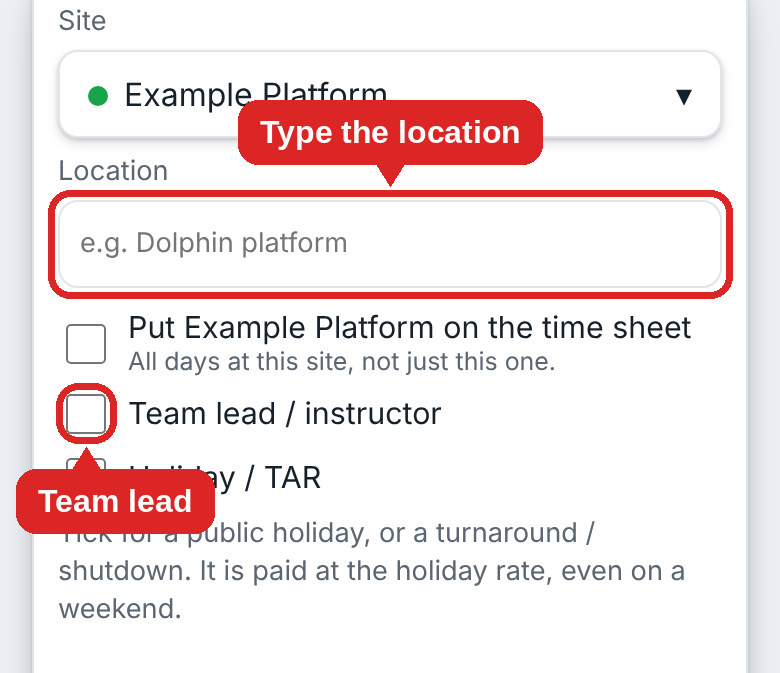
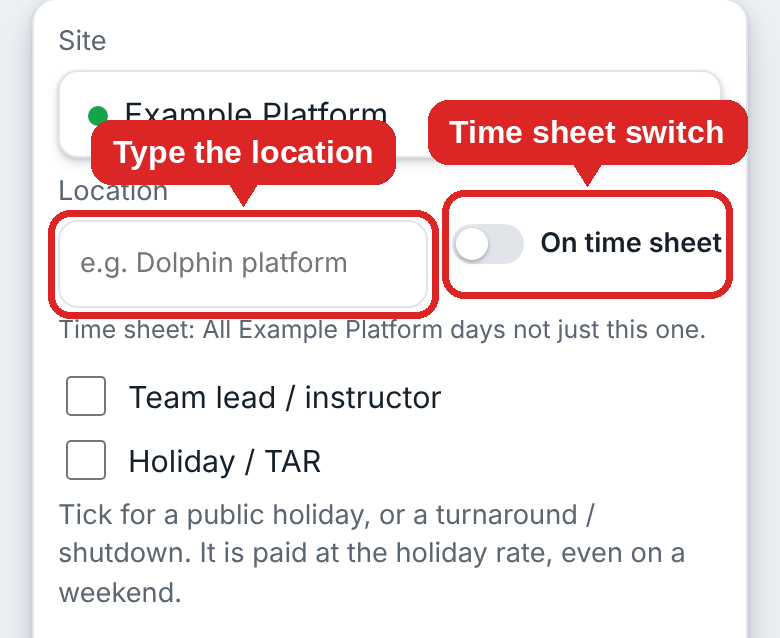
Compact group rate cards, Close bar on site cards, time sheet switch on the day form (#18)
* Holiday / turnaround days read HOL/TAR in the list and on Home

* Timesheet: tick the sites and roles that go on the timesheet (and other jobs), edit the Client column text, press Save

* Menus pull down from their handle and title bar only; time picker uses AM/PM, hour and minute wheels (always saved as 24-hour)

* Payroll email says Good day; timesheet jobs show roles under each site, a read-out sentence, and a client-medic-everywhere option

Claude-Session: https://claude.ai/code/session_015B217MJCLoYGM2HCZFLF5v

* Time picker: smaller, softer time readout

Claude-Session: https://claude.ai/code/session_015B217MJCLoYGM2HCZFLF5v

* Share menu: starter kit tries .txt first (Android refuses .json); Send to payroll builds the file first, then opens the share menu with the email text

Claude-Session: https://claude.ai/code/session_015B217MJCLoYGM2HCZFLF5v

* Per-site 'Job requires lunch check' Yes/No (settings and Add site); No hides lunch options and pays the full time

Claude-Session: https://claude.ai/code/session_015B217MJCLoYGM2HCZFLF5v

* Colour picker: smaller round swatches in three rows, 12 more colours (existing sites keep theirs)

Claude-Session: https://claude.ai/code/session_015B217MJCLoYGM2HCZFLF5v

* Send to payroll: Download and share in one tap (saves to Downloads, stays on screen, opens the share menu); button becomes Share if the phone needs a second tap

Claude-Session: https://claude.ai/code/session_015B217MJCLoYGM2HCZFLF5v
[…]

Changed region(s): [[0.0, 0.0, 0.9846, 0.953], [0.9231, 0.0, 0.9538, 0.0298]]

diff --git a/src/screens/SitesPage.tsx b/src/screens/SitesPage.tsx
@@ -317,6 +317,7 @@ function SiteCard({ name, saved, payers, firstDate, impactFor, onSave, onRename,
           </div>
         </div>
       )}
+      <button className="more close-site" onClick={(e) => { const d = e.currentTarget.closest("details")!; d.open = false; d.scrollIntoView({ block: "nearest" }); }}>Close {name} ▴</button>
     </details>
   );
 }
@@ -343,7 +344,6 @@ function GroupRates({ payer, name, table, firstDate, impactFor, farBack, onApply
   const ownRate = (n: string) => { const t = table[n]!; return (curStd !== undefined && t.baseRate !== curStd) || (curLead !== undefined && t.leadRate !== undefined && t.leadRate !== curLead); };
   const defaultExcept = change.filter(ownRate);
   const [except, setExcept] = useState<string[]>(defaultExcept);
-  const [showExcept, setShowExcept] = useState(false);
   useEffect(() => { setStd(curStd); setLead(curLead); setSameLead(curStd !== undefined && curStd === curLead); setCaps(curCaps); setExcept(defaultExcept); }, [key]); // eslint-disable-line react-hooks/exhaustive-deps
   const newLead = sameLead ? std : lead;
   const capsChanged = JSON.stringify(caps) !== JSON.stringify(curCaps);
@@ -355,15 +355,16 @@ function GroupRates({ payer, name, table, firstDate, impactFor, farBack, onApply
   return (
     <section className="card group-rates" aria-label={`Rates for ${name}`}>
       <h2>{name}</h2>
-      <p className="muted small">{included.length === change.length ? `The same rates for all ${change.length} hourly site${change.length === 1 ? "" : "s"}` : `Applies to ${included.length} of ${change.length} hourly sites`}: {included.join(", ") || "none"}.{except.length > 0 && <> Left out: <strong>{except.join(", ")}</strong>.</>}</p>
+      <p className="muted small">{included.length === change.length ? `${change.length} hourly site${change.length === 1 ? "" : "s"}` : `${included.length} of ${change.length} hourly sites`}: {included.join(", ") || "none"}.{except.length > 0 && <> Left out: <strong>{except.join(", ")}</strong>.</>}</p>
       <div className="grid2">
         <label>Standard rate ($/h)<NumInput label={`${name} standard rate`} value={std} onChange={setStd} /></label>
         <label>Team lead rate ($/h)<NumInput label={`${name} team lead rate`} value={sameLead ? std : lead} onChange={(v) => { setSameLead(false); setLead(v); }} /></label>
       </div>
       <label className="check"><input type="checkbox" aria-label={`${name} team lead same as standard`} checked={sameLead} onChange={(e) => setSameLead(e.target.checked)} /> {" "}Team lead is paid the same as standard</label>
-      <button className="more" aria-expanded={more} onClick={() => setMore(!more)}>{more ? "Less ▴" : "More ▾"} <span className="muted small">· hours at 1x, 1.5x, 2x, 3x</span></button>
+      <button className="more" aria-expanded={more} onClick={() => setMore(!more)}>{more ? "Less ▴" : "More… ▾"} <span className="muted small">· hours, except, start date{except.length ? ` · ${except.length} left out` : ""}</span></button>
       {more && (
         <div className="more-panel">
+          <h3 className="sub">Hours at 1x, 1.5x, 2x, 3x</h3>
           <label>Start from a template
             <select aria-label={`${name} hours template`} value={detectTemplate(caps) ?? ""} onChange={(e) => e.target.value && setCaps(applyTemplate(caps, e.target.value))}>
               <option value="">{detectTemplate(caps) ? "" : "Custom hours"}</option>
@@ -377,21 +378,19 @@ function GroupRates({ payer, name, table, firstDate, impactFor, farBack, onApply
             <CapsRow label="Holiday / TAR" caps={caps.holiday} onChange={(c) => setCaps({ ...caps, holiday: c })} withX3 />
           </div>
           <p className="muted small">Example: 12 under 1x means the first 12 hours of each day are paid at 1x. Type 1000 for “no limit”. Holiday / TAR is used for a holiday or a turnaround / shutdown, even on a weekend.</p>
+          <h3 className="sub">Except</h3>
+          <div className="except-panel" role="group" aria-label={`Sites to leave out of ${name} changes`}>
+            <p className="muted small">Tick a site to <strong>leave it out</strong> of “Change for all sites”. Sites with their own rate start out ticked.</p>
+            {change.map((n) => (
+              <label key={n} className="check">
+                <input type="checkbox" aria-label={`Leave out ${n}`} checked={except.includes(n)} onChange={(e) => setExcept(e.target.checked ? [...except, n] : except.filter((x) => x !== n))} />
+                {" "}{n}{table[n]!.baseRate !== undefined && <span className="muted small"> · ${table[n]!.baseRate}/h{table[n]!.leadRate !== undefined && table[n]!.leadRate !== table[n]!.baseRate ? ` · lead $${table[n]!.leadRate}` : ""}{ownRate(n) ? " · own rate" : ""}</span>}
+              </label>
+            ))}
+          </div>
+          <TakeEffect from={from} setFrom={setFrom} firstDate={firstDate} label={`${name} take effect from`} impact={impact} />
         </div>
       )}
-      <button className="more" aria-expanded={showExcept} onClick={() => setShowExcept(!showExcept)}>{showExcept ? "Except ▴" : `Except… ${except.length ? `(${except.length} left out)` : ""} ▾`}</button>
-      {showExcept && (
-        <div className="more-panel except-panel" role="group" aria-label={`Sites to leave out of ${name} changes`}>
-          <p className="muted small">Tick a site to <strong>leave it out</strong> of “Change for all sites”. Sites with their own rate start out ticked.</p>
-          {change.map((n) => (
-            <label key={n} className="check">
-              <input type="checkbox" aria-label={`Leave out ${n}`} checked={except.includes(n)} onChange={(e) => setExcept(e.target.checked ? [...except, n] : except.filter((x) => x !== n))} />
-              {" "}{n}{table[n]!.baseRate !== undefined && <span className="muted small"> · ${table[n]!.baseRate}/h{table[n]!.leadRate !== undefined && table[n]!.leadRate !== table[n]!.baseRate ? ` · lead $${table[n]!.leadRate}` : ""}{ownRate(n) ? " · own rate" : ""}</span>}
-            </label>
-          ))}
-        </div>
-      )}
-      <TakeEffect from={from} setFrom={setFrom} firstDate={firstDate} label={`${name} take effect from`} impact={impact} />
       <button className="primary wide" disabled={!changed || included.length === 0} onClick={() => setAsk(true)}>Change for all sites</button>
       {skip.length > 0 && <p className="muted small">Not changed (flat pay or a threshold rate): {skip.join(", ")}. Edit those below.</p>}
       {ask && (

diff --git a/src/screens/DayEditor.tsx b/src/screens/DayEditor.tsx
@@ -192,42 +192,51 @@ export function DayEditor({ date, add, focus, onClose }: { date: string; add?: "
           return (
             <div className="entry" key={entry.id} data-entry-id={entry.id}>
               <SitePicker value={entry.site} names={siteNames} onPick={(n) => changeSite(entry, n)} />
-              {findSite(sites, entry.site)?.roleField ? (
-                <label>
-                  {findSite(sites, entry.site)!.roleField!.label}
-                  <input aria-label={findSite(sites, entry.site)!.roleField!.label}
-                    value={entry.role ?? ""} placeholder={`e.g. ${findSite(sites, entry.site)!.roleField!.placeholder ?? ""}`.trim()}
-                    onChange={(e) => patch(entry.id, { role: e.target.value || undefined })}
-                  />
-                </label>
-              ) : (() => {
+              {(() => {
+                const typedField = findSite(sites, entry.site)?.roleField;
                 const roleNames = rolesFor(findSite(sites, entry.site));
                 const orphan = entry.role && !roleNames.some((r) => r.toLowerCase() === entry.role!.toLowerCase());
-                return (
-                  <label className="field-short">
-                    Role
-                    <select value={entry.role ?? ""} onChange={(e) => patch(entry.id, { role: e.target.value || undefined })}>
-                      <option value="">Not applicable</option>
-                      {roleNames.map((r) => <option key={r} value={r}>{r}</option>)}
-                      {orphan && <option value={entry.role}>{entry.role} (not in rates)</option>}
-                    </select>
-                  </label>
-                );
-              })()}
-              {entry.site && (() => {
-                const typedSite = !!findSite(sites, entry.site)?.roleField;
-                const role = !typedSite && entry.role?.trim() ? entry.role.trim() : undefined;
+                const role = !typedField && entry.role?.trim() ? entry.role.trim() : undefined;
                 const siteRule = siteRuleOf(entry.site);
                 const own = role ? !!roleRuleOf(entry.site, role) : !!siteRule;
                 const viaOther = !own && forced;
+                // The time sheet switch is a setting for every day at the site, so it sits beside the role box, away from this day's ticks.
                 return (
-                  <label className="check ts-check">
-                    <input type="checkbox" checked={own || viaOther} disabled={viaOther} onChange={(e) => toggleSheet(entry.site, role, e.target.checked)} />
-                    <span>
-                      {role ? `Put ${entry.site} ${role} on the time sheet` : `Put ${entry.site} on the time sheet`}
-                      <small className="muted">{viaOther ? (siteRule ? "The whole site is on it (Settings, Timesheet)." : "On it by a role rule (Settings, Timesheet).") : role ? `All ${role} days at this site, not just this one.` : "All days at this site, not just this one."}</small>
-                    </span>
-                  </label>
+                  <>
+                    <div className="role-row">
+                      {typedField ? (
+                        <label>
+                          {typedField.label}
+                          <input aria-label={typedField.label}
+                            value={entry.role ?? ""} placeholder={`e.g. ${typedField.placeholder ?? ""}`.trim()}
+                            onChange={(e) => patch(entry.id, { role: e.target.value || undefined })}
+                          />
+                        </label>
+                      ) : (
+                        <label>
+                          Role
+                          <select value={entry.role ?? ""} onChange={(e) => patch(entry.id, { role: e.target.value || undefined })}>
+                            <option value="">Not applicable</option>
+                            {roleNames.map((r) => <option key={r} value={r}>{r}</option>)}
+                            {orphan && <option value={entry.role}>{entry.role} (not in rates)</option>}
+                          </select>
+                        </label>
+                      )}
+                      {entry.site && (
+                        <label className="ts-switch">
+                          <input type="checkbox" role="switch" aria-label={role ? `Put ${entry.site} ${role} on the time sheet` : `Put ${entry.site} on the time sheet`}
+                            checked={own || viaOther} disabled={viaOther} onChange={(e) => toggleSheet(entry.site, role, e.target.checked)} />
+                          <i aria-hidden="true" />
+                          <span>On time sheet</span>
+                        </label>
+                      )}
+                    </div>
+                    {entry.site && (() => {
+                      const hint = viaOther ? (siteRule ? "The whole site is on the time sheet (Settings, Timesheet)." : "On it by a role rule (Settings, Timesheet).") : `Time sheet: All ${entry.site}${role ? ` ${role}` : ""} days not just this one.`;
+                      // One line on any phone: the text shrinks with the screen width.
+                      return <p className="muted ts-hint" style={{ "--n": hint.length } as React.CSSProperties}>{hint}</p>;
+                    })()}
+                  </>
                 );
               })()}
               <div className="checks">

diff --git a/src/styles.css b/src/styles.css
@@ -881,3 +881,23 @@ button.danger.outline { background: var(--card); color: var(--danger); border: 2
 .payer-tax li.sheet-line { margin-top: 2px; padding-top: 6px; border-top: 1px dashed var(--edge); }
 .payer-tax li.sheet-line > span { white-space: normal; }
 .payer-tax li.sheet-line .sheet-note { font-size: 0.75rem; font-style: italic; }
+.more-panel h3.sub { font-size: 0.8rem; text-transform: uppercase; letter-spacing: .04em; color: var(--muted); margin: 6px 0 0; }
+.site summary { list-style: none; margin: 0 -12px; padding: 0 12px; border-radius: 12px; }
+.site summary::-webkit-details-marker { display: none; }
+.site summary::after { content: "▾"; margin-left: auto; padding-left: 8px; color: var(--muted); }
+.site[open] > summary { background: var(--bg); border-bottom: 1px solid var(--edge); border-radius: 12px 12px 0 0; margin-bottom: 8px; }
+.site[open] > summary::after { content: "Close ▴"; font-size: 0.8rem; font-weight: 600; color: var(--accent); }
+button.close-site { justify-content: center; text-align: center; color: var(--accent); font-weight: 600; }
+.site summary::after { white-space: nowrap; flex-shrink: 0; }
+
+.role-row { display: flex; gap: 12px; align-items: flex-end; }
+.role-row > label:first-child { flex: 1 1 0; min-width: 0; margin: 0; }
+.ts-switch { flex: none; display: flex; align-items: center; gap: 8px; margin: 0 0 10px; padding-bottom: 0; min-height: 44px; font-size: 0.85rem; font-weight: 600; color: var(--text); cursor: pointer; }
+.ts-switch input { position: absolute; opacity: 0; width: 1px; height: 1px; }
+.ts-switch i { position: relative; width: 36px; height: 20px; border-radius: 10px; background: var(--edge); transition: background .15s; flex: none; }
+.ts-switch i::after { content: ""; position: absolute; top: 2px; left: 2px; width: 16px; height: 16px; border-radius: 50%; background: #fff; box-shadow: 0 1px 2px rgba(0,0,0,.3); transition: transform .15s; }
+.ts-switch input:checked + i { background: var(--accent); }
+.ts-switch input:checked + i::after { transform: translateX(16px); }
+.ts-switch input:focus-visible + i { outline: 2px solid var(--accent); outline-offset: 2px; }
+.ts-switch input:disabled + i { opacity: .55; }
+.ts-hint { margin: 2px 0 12px; white-space: nowrap; font-size: clamp(0.7rem, calc((100vw - 56px) / (var(--n, 48) * 0.48)), 0.85rem); overflow: hidden; }

diff --git a/guide/build_guide.py b/guide/build_guide.py
@@ -153,8 +153,8 @@ s.append(steps([
  ("Tap <b>Calendar</b> at the bottom of the screen, then tap the date you worked.", A("a-calendar"), 50),
  ("Under the calendar, tap <b>Add job</b>. The day form opens.", A("e-daypanel"), 50),
  ("<b>Pick the site.</b> Tap the site box at the top. Type to search, or tap the site in the list.", A("e-picker"), 50),
- ("<b>Role or location.</b> Most sites have a <b>Role</b> list (for example Client medic, or Not applicable). A site set to <b>Type in a location</b> has a box instead: type where you worked, for example Dolphin platform. It goes in the <b>Client assigned</b> column of the time sheet. Tick <b>Team lead / instructor</b> or <b>Holiday / TAR</b> if they apply.", A("e-loc"), 50),
- ("<b>Time sheet tick.</b> Below the role there is <b>Put [site] on the time sheet</b>. With a role chosen (for example Client medic at PLNL) it reads <b>Put PLNL Client medic on the time sheet</b> and covers only that role. It applies to every such day at that site, not just this day, and it is remembered from now on.", A("d-tick"), 50),
+ ("<b>Role or location.</b> Most sites have a <b>Role</b> list (for example Client medic, or Not applicable). A site set to <b>Type in a location</b> has a box instead: type where you worked, for example Dolphin platform. It goes in the <b>Client assigned</b> column of the time sheet. Tick <b>Team lead / instructor</b> or <b>Holiday / TAR</b> if they apply (they are this day only).", A("e-loc"), 50),
+ ("<b>Time sheet switch.</b> Beside the Role box there is the switch <b>On time sheet</b>. Switch it on to put every day at that site on the time sheet. Under it a small line says what it covers, for example <b>All Atlantic days not just this one</b>. With a role chosen (for example Client medic at PLNL) it covers only that role, and the line reads <b>All PLNL Client medic days not just this one</b>. It is remembered from now on.", A("d-tick"), 50),
  ("<b>Hours.</b> A job on the time sheet always uses <b>start and end time</b>: tap a time, turn the AM/PM, hour and minute wheels (or type the time) and tap <b>Set</b>. The hours paid come from the times and cannot be typed. Other sites can use <b>Simple</b> (type the hours with the minus and plus buttons) or <b>Detailed</b> (start and end time).", A("b-time"), 50),
  ("Hourly sites with a lunch check ask if <b>lunch was paid</b>, or how much unpaid lunch comes off (30 minutes or 1 hour). A <b>fixed day rate</b> site has no lunch options.", A("e-hours"), 50),
  ("The line at the bottom shows the <b>pay for the day</b>. To log a second job on the same day, tap <b>Add another job</b>. Then tap <b>Save</b>. <b>Cancel</b> throws the changes away.", A("e-pay"), 50)]))
@@ -192,7 +192,7 @@ s.append(Paragraph("C. Change a rate", h2))
 s.append(steps([
  ("In <b>Site locations &amp; rates</b>, tap the site to open it. Change the <b>Standard rate</b> or the <b>Team lead rate</b>.", A("c-rate"), 50),
  ("A bar appears at the bottom. Pick the date the new rate starts under <b>Take effect from</b>: today (earlier days keep their old rate), a future date, or <b>Apply to all days</b> to recalculate every day. Then tap <b>Save</b>.", A("c-effect"), 50),
- ("To change a whole group at once, use the group card above the site list and tap <b>Change for all sites</b>. You can leave out sites that have their own rate.", None)]))
+ ("To change a whole group at once, use the group card above the site list: change the <b>Standard rate</b> and <b>Team lead rate</b> and tap <b>Change for all sites</b>. Tap <b>More...</b> to set the hours at 1x, 1.5x, 2x and 3x, to leave out sites that have their own rate (<b>Except</b>), and to pick the <b>Take effect from</b> date.", None)]))
 s.append(Paragraph("D. Give a role its own pay", h2))
 s.append(steps([
  ("Open the site. Under <b>Role rates</b>, type a role (for example Offshore) in <b>Add another role</b> and tap <b>Add role</b>. Give the role its own rate and, if needed, its own hours. Leave it blank to use the site's standard rate.", A("c-roles"), 50),

diff --git a/guide/capture/annot10.py b/guide/capture/annot10.py
@@ -18,7 +18,7 @@ def make(name, notes, out, up, down):
     im.crop((0,max(0,int(min(ys)-up)),im.width,min(im.height,int(max(ye)+down)))).save(f"shots10/{out}.png")
 make("day-panel",[("add","Tap Add job","above")],"e-daypanel",up=700,down=120)
 make("picker",[("search","Search for the site, or pick it","below")],"e-picker",up=100,down=800)
-make("loc",[("loc","Type the location","above"),("lead","Team lead","below")],"e-loc",up=200,down=240)
+make("loc",[("loc","Type the location","above"),("sw","Time sheet switch","above")],"e-loc",up=200,down=330)
 make("hours",[("tile","Hours paid come from the times","above"),("start","Start and end time","below")],"e-hours",up=220,down=250)
 make("pay",[("pay","The pay for the day","above"),("another","Add another job","below"),("save","Save","below")],"e-pay",up=250,down=170)
 make("saved",[("edit","Edit","above"),("del","Delete","above")],"e-saved",up=420,down=200)

diff --git a/guide/capture/annot9.py b/guide/capture/annot9.py
@@ -19,5 +19,5 @@ def make(name, notes, out, up, down):
 make("typed",[("typed","Type in a location","above")],"d-typed",up=170,down=420)
 make("fixed",[("fixed","Fixed day rate","above"),("rate","Day rate","below"),("hours","1x hours","below")],"d-fixed",up=150,down=170)
 make("weekend",[("wk","Same as weekday","above"),("hol","Or set its own","below")],"d-weekend",up=170,down=170)
-make("tick",[("tick","Tick to put the site on the time sheet","below")],"d-tick",up=300,down=300)
+make("tick",[("tick","Time sheet switch","above")],"d-tick",up=300,down=300)
 for n in ["d-typed","d-fixed","d-weekend","d-tick"]: print(n,Image.open(f"shots9/{n}.png").size)
